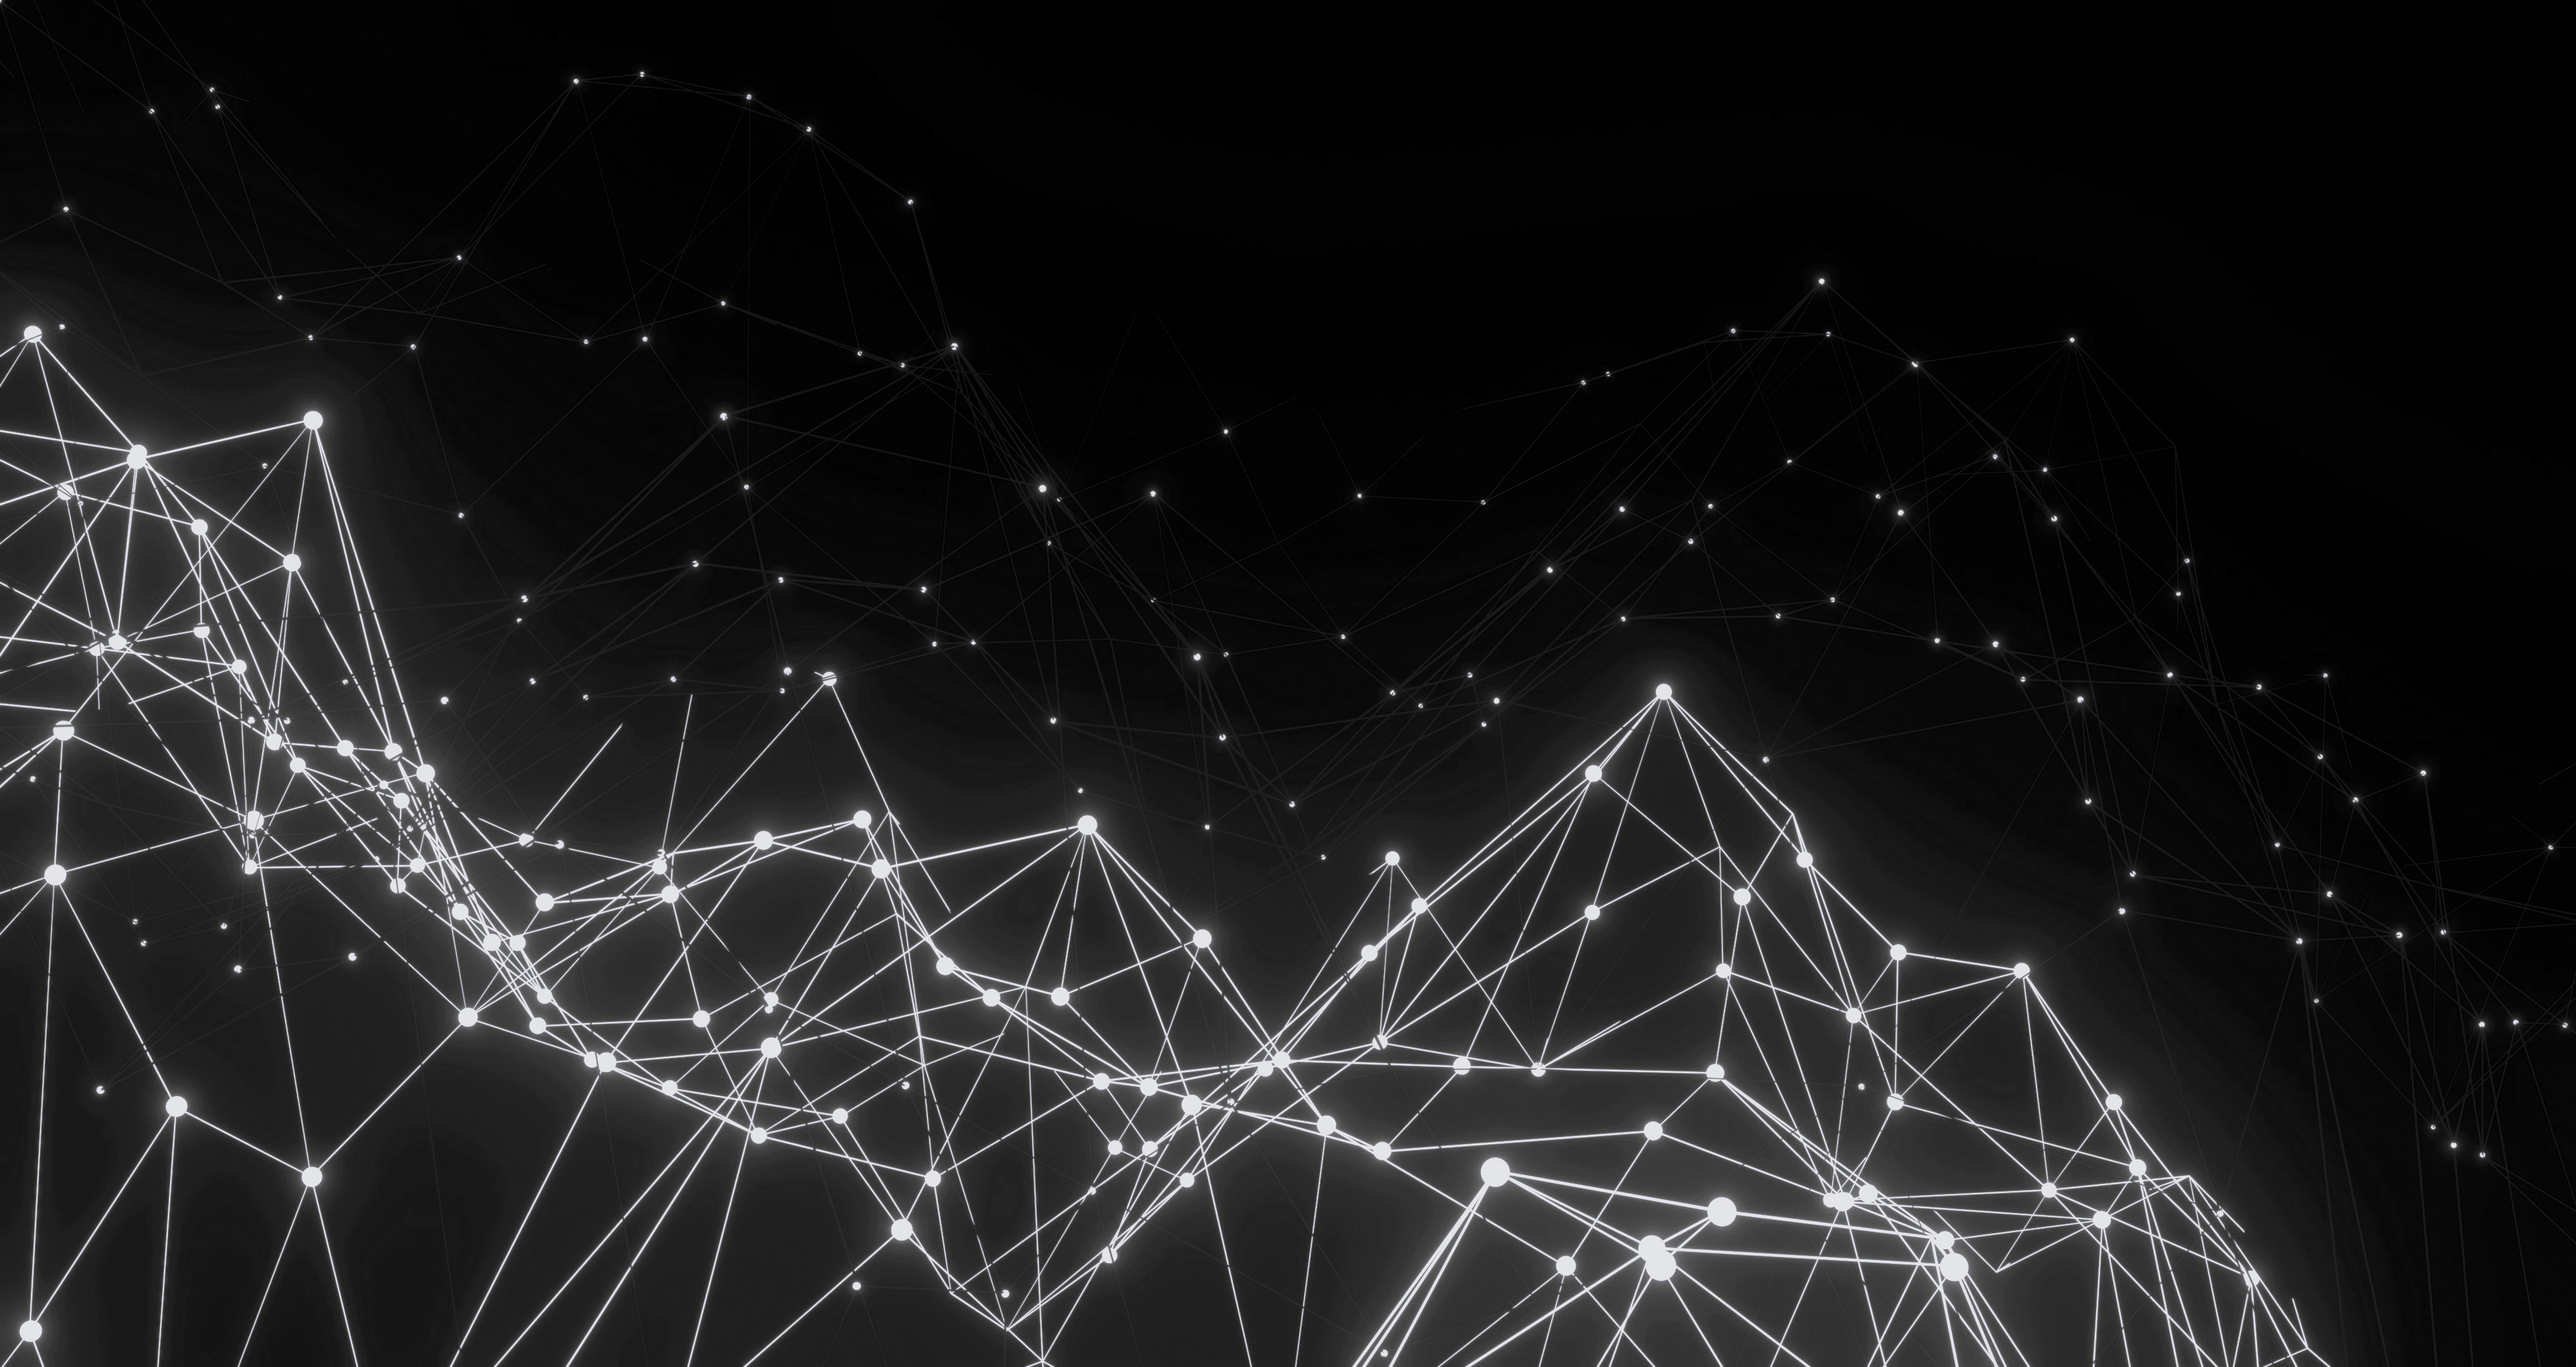
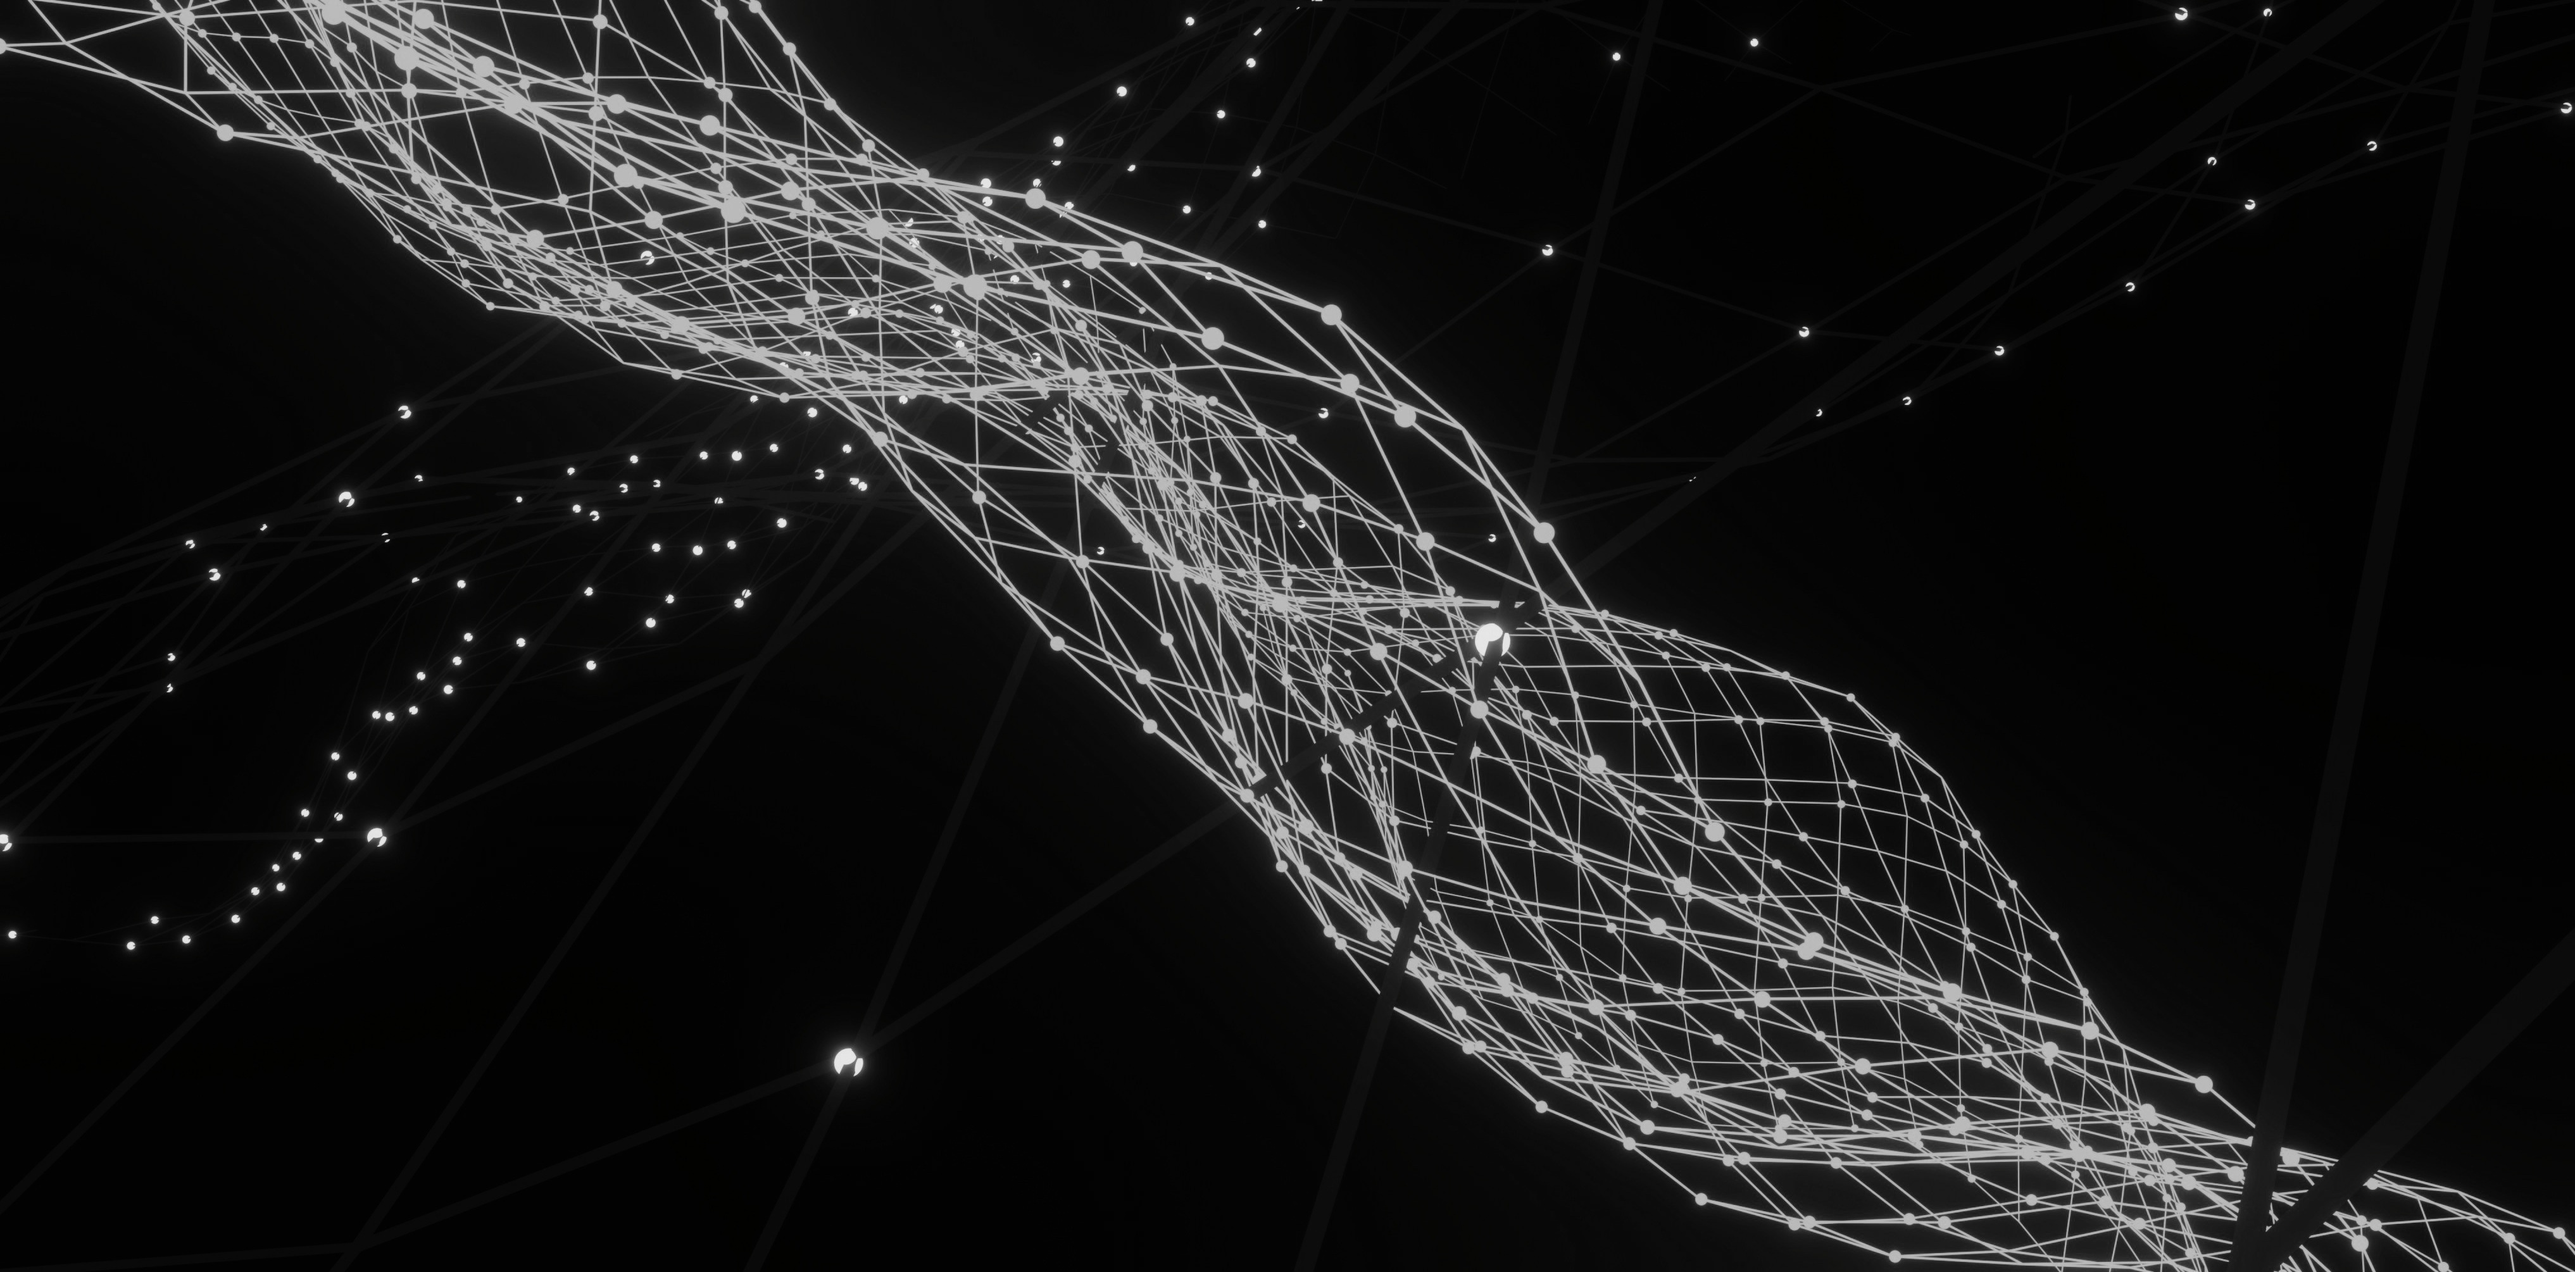
Fixed show more buttom

diff --git a/layouts/partials/sections/education.html b/layouts/partials/sections/education.html
@@ -16,7 +16,7 @@
     <table class="education-info-table">
         <tbody>
             {{ $count := len .degrees }}
-            {{ range .degrees}}
+            {{ range $index, $degree := .degrees}}
             <tr>
                 <td class="icon">
                     {{ if gt $count 1}}
@@ -30,7 +30,7 @@
                         <div></div>
                     </td>
                     <td class="details">
-                        <div class="degree-info card">
+                        <div class="degree-info card" id="degree-card-{{ $index }}">
 
                             {{ $logoImage:= resources.Get .institution.logo}}
                             {{ $darkLogoImage:= resources.Get .institution.darkLogo}}
@@ -98,12 +98,15 @@
                                         {{ end }}
                                     </ul>
                                 {{ end }}
-                                {{ if gt (len .takenCourses.courses ) $collapseAfter }}
-                                    <button type="button" class="btn btn-link show-more-btn pt-0 {{ if .takenCourses.showGrades }}ms-1{{ else }}ms-2{{ end }}"
-                                    id="show-more-btn">{{ i18n "show_more"}}</button>
-                                    <button type="button" class="btn btn-link show-more-btn hidden pt-0 {{ if .takenCourses.showGrades }}ms-1{{ else }}ms-2{{ end }}"
-                                    id="show-less-btn">{{ i18n "show_less"}}</button>
-                                {{ end }}
+                            {{ if gt (len .takenCourses.courses ) $collapseAfter }}
+                                <button 
+                                type="button" 
+                                class="btn btn-link course-toggle-btn pt-0 {{ if .takenCourses.showGrades }}ms-1{{ else }}ms-2{{ end }}"
+                                data-more-text="{{ i18n "show_more" }}"
+                                data-less-text="{{ i18n "show_less" }}">
+                                {{ i18n "show_more" }}
+                                </button>
+                            {{ end }}
                             </div>
                             {{ end }}
                             {{ if .extracurricularActivities }}
@@ -132,3 +135,34 @@
         </table>
     </div>
 </div>
+<script>
+  document.addEventListener('DOMContentLoaded', function () {
+    // Find all the new toggle buttons
+    const toggleButtons = document.querySelectorAll('.course-toggle-btn');
+
+    toggleButtons.forEach(button => {
+      button.addEventListener('click', function (event) {
+        const clickedButton = event.target;
+        // Find the parent card for the clicked button
+        const targetCard = clickedButton.closest('.degree-info.card');
+
+        if (!targetCard) return;
+
+        // Toggle the 'is-expanded' class on the card
+        targetCard.classList.toggle('is-expanded');
+
+        // Check if the card is now expanded
+        const isExpanded = targetCard.classList.contains('is-expanded');
+
+        // Update the button text
+        if (isExpanded) {
+          clickedButton.textContent = clickedButton.dataset.lessText;
+        } else {
+          clickedButton.textContent = clickedButton.dataset.moreText;
+          // If we are collapsing the list, scroll back to the top of the card
+          targetCard.scrollIntoView({ behavior: 'smooth', block: 'start' });
+        }
+      });
+    });
+  });
+</script>

diff --git a/assets/styles/sections/education.scss b/assets/styles/sections/education.scss
@@ -177,6 +177,16 @@
   border-right: 2px solid get-light-color('accent-color');
 }
 
+/* When a card is expanded, we show the hidden courses */
+/* This rule is for courses in a TABLE */
+.degree-info.is-expanded .hidden-course {
+  display: table-row !important;
+}
+
+/* This rule is for courses in a LIST (<ul>) */
+.degree-info.is-expanded ul .hidden-course {
+  display: list-item !important;
+}
 html[data-theme='dark'] {
   .education-section {
     .card {
